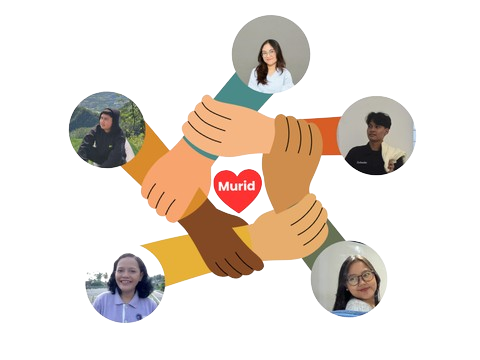
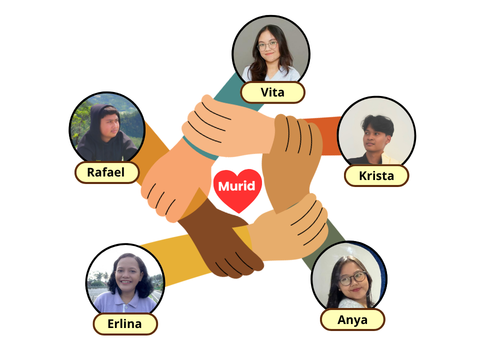
fixxx7

diff --git a/static/js/init.js b/static/js/init.js
@@ -10,23 +10,12 @@
     return document.querySelector('.calculator-panel');
   }
 
-  function getMakeQuestionButton() {
-    return document.getElementById('makeQuestionButton');
-  }
-
   function getSubmitAnswerRow() {
     return document.getElementById('submitAnswerRow');
   }
 
   function getSubmitAnswerButton() {
     return document.getElementById('submitAnswerButton');
-  }
-
-  function updateMakeQuestionButton() {
-    const button = getMakeQuestionButton();
-    const calculatorPanel = getCalculatorPanel();
-    if (!button || !calculatorPanel) return;
-    button.textContent = calculatorPanel.classList.contains('hidden') ? 'Jawaban' : 'Tutup Jawaban';
   }
 
   function updateSubmitButtonVisibility() {
@@ -36,7 +25,6 @@
     submitAnswerRow.classList.toggle('hidden', calculatorPanel.classList.contains('hidden'));
   }
 
-  window.updateMakeQuestionButton = updateMakeQuestionButton;
   window.updateSubmitButtonVisibility = updateSubmitButtonVisibility;
 
   function isSameOriginLink(anchor) {
@@ -93,7 +81,6 @@
     if (window.gemanti && typeof window.gemanti.updateSoundUI === 'function') window.gemanti.updateSoundUI();
     if (window.gemanti && typeof window.gemanti.playBackgroundGameAudio === 'function') window.gemanti.playBackgroundGameAudio();
     if (window.gemanti && typeof window.gemanti.initSoundControl === 'function') window.gemanti.initSoundControl();
-    if (typeof updateMakeQuestionButton === 'function') updateMakeQuestionButton();
     if (typeof updateSubmitButtonVisibility === 'function') updateSubmitButtonVisibility();
     if (typeof toggleHelpVideo === 'function') toggleHelpVideo(false);
     if (typeof initPermainanGame === 'function') initPermainanGame();
@@ -260,17 +247,6 @@
       return;
     }
 
-    if (button.id === 'makeQuestionButton') {
-      event.preventDefault();
-      const calculatorPanel = getCalculatorPanel();
-      if (!calculatorPanel) return;
-      const openingCalculator = calculatorPanel.classList.contains('hidden');
-      calculatorPanel.classList.toggle('hidden');
-      if (openingCalculator && typeof toggleHelpVideo === 'function') toggleHelpVideo(false);
-      updateMakeQuestionButton();
-      updateSubmitButtonVisibility();
-      return;
-    }
 
     if (button.id === 'submitAnswerButton') {
       event.preventDefault();

diff --git a/templates/permainan_hp.html b/templates/permainan_hp.html
@@ -28,7 +28,6 @@
                 </div>
                 {% if not game_description %}
                 <div class="help-actions">
-                  <button type="button" class="btn btn--primary" id="makeQuestionButton">Jawaban</button>
                   <button type="button" id="helpVideoButton" class="btn">Bantuan</button>
                 </div>
                 {% endif %}
@@ -119,7 +118,7 @@
                   Browser kamu tidak mendukung video bantuan.
                 </video>
               </div>
-              <div class="calculator-panel hidden">
+              <div class="calculator-panel">
                 <div class="number-pad">
                   <button type="button" class="pad-key calculator-key" data-key="7">7</button>
                   <button type="button" class="pad-key calculator-key" data-key="8">8</button>
@@ -135,7 +134,7 @@
                   <button type="button" class="pad-key calculator-key delete" data-key="Hapus">⌫</button>
                 </div>
               </div>
-              <div class="calculator-actions calculator-actions--single hidden" id="submitAnswerRow">
+              <div class="calculator-actions calculator-actions--single" id="submitAnswerRow">
                 <button type="button" class="btn btn--primary" id="submitAnswerButton">Submit Jawaban</button>
               </div>
             </div>

diff --git a/static/js/game.js b/static/js/game.js
@@ -103,11 +103,15 @@ function toggleHelpVideo(show) {
   if (!helpVideoContainer) return;
   const isHidden = helpVideoContainer.classList.contains("hidden");
   const shouldShow = typeof show === "boolean" ? show : isHidden;
+  const calculatorPanel = document.querySelector('.calculator-panel');
   if (shouldShow) {
-    const calculatorPanel = document.querySelector('.calculator-panel');
     if (calculatorPanel && !calculatorPanel.classList.contains('hidden')) {
       calculatorPanel.classList.add('hidden');
-      if (window.updateMakeQuestionButton) window.updateMakeQuestionButton();
+      if (window.updateSubmitButtonVisibility) window.updateSubmitButtonVisibility();
+    }
+  } else {
+    if (calculatorPanel && calculatorPanel.classList.contains('hidden')) {
+      calculatorPanel.classList.remove('hidden');
       if (window.updateSubmitButtonVisibility) window.updateSubmitButtonVisibility();
     }
   }
